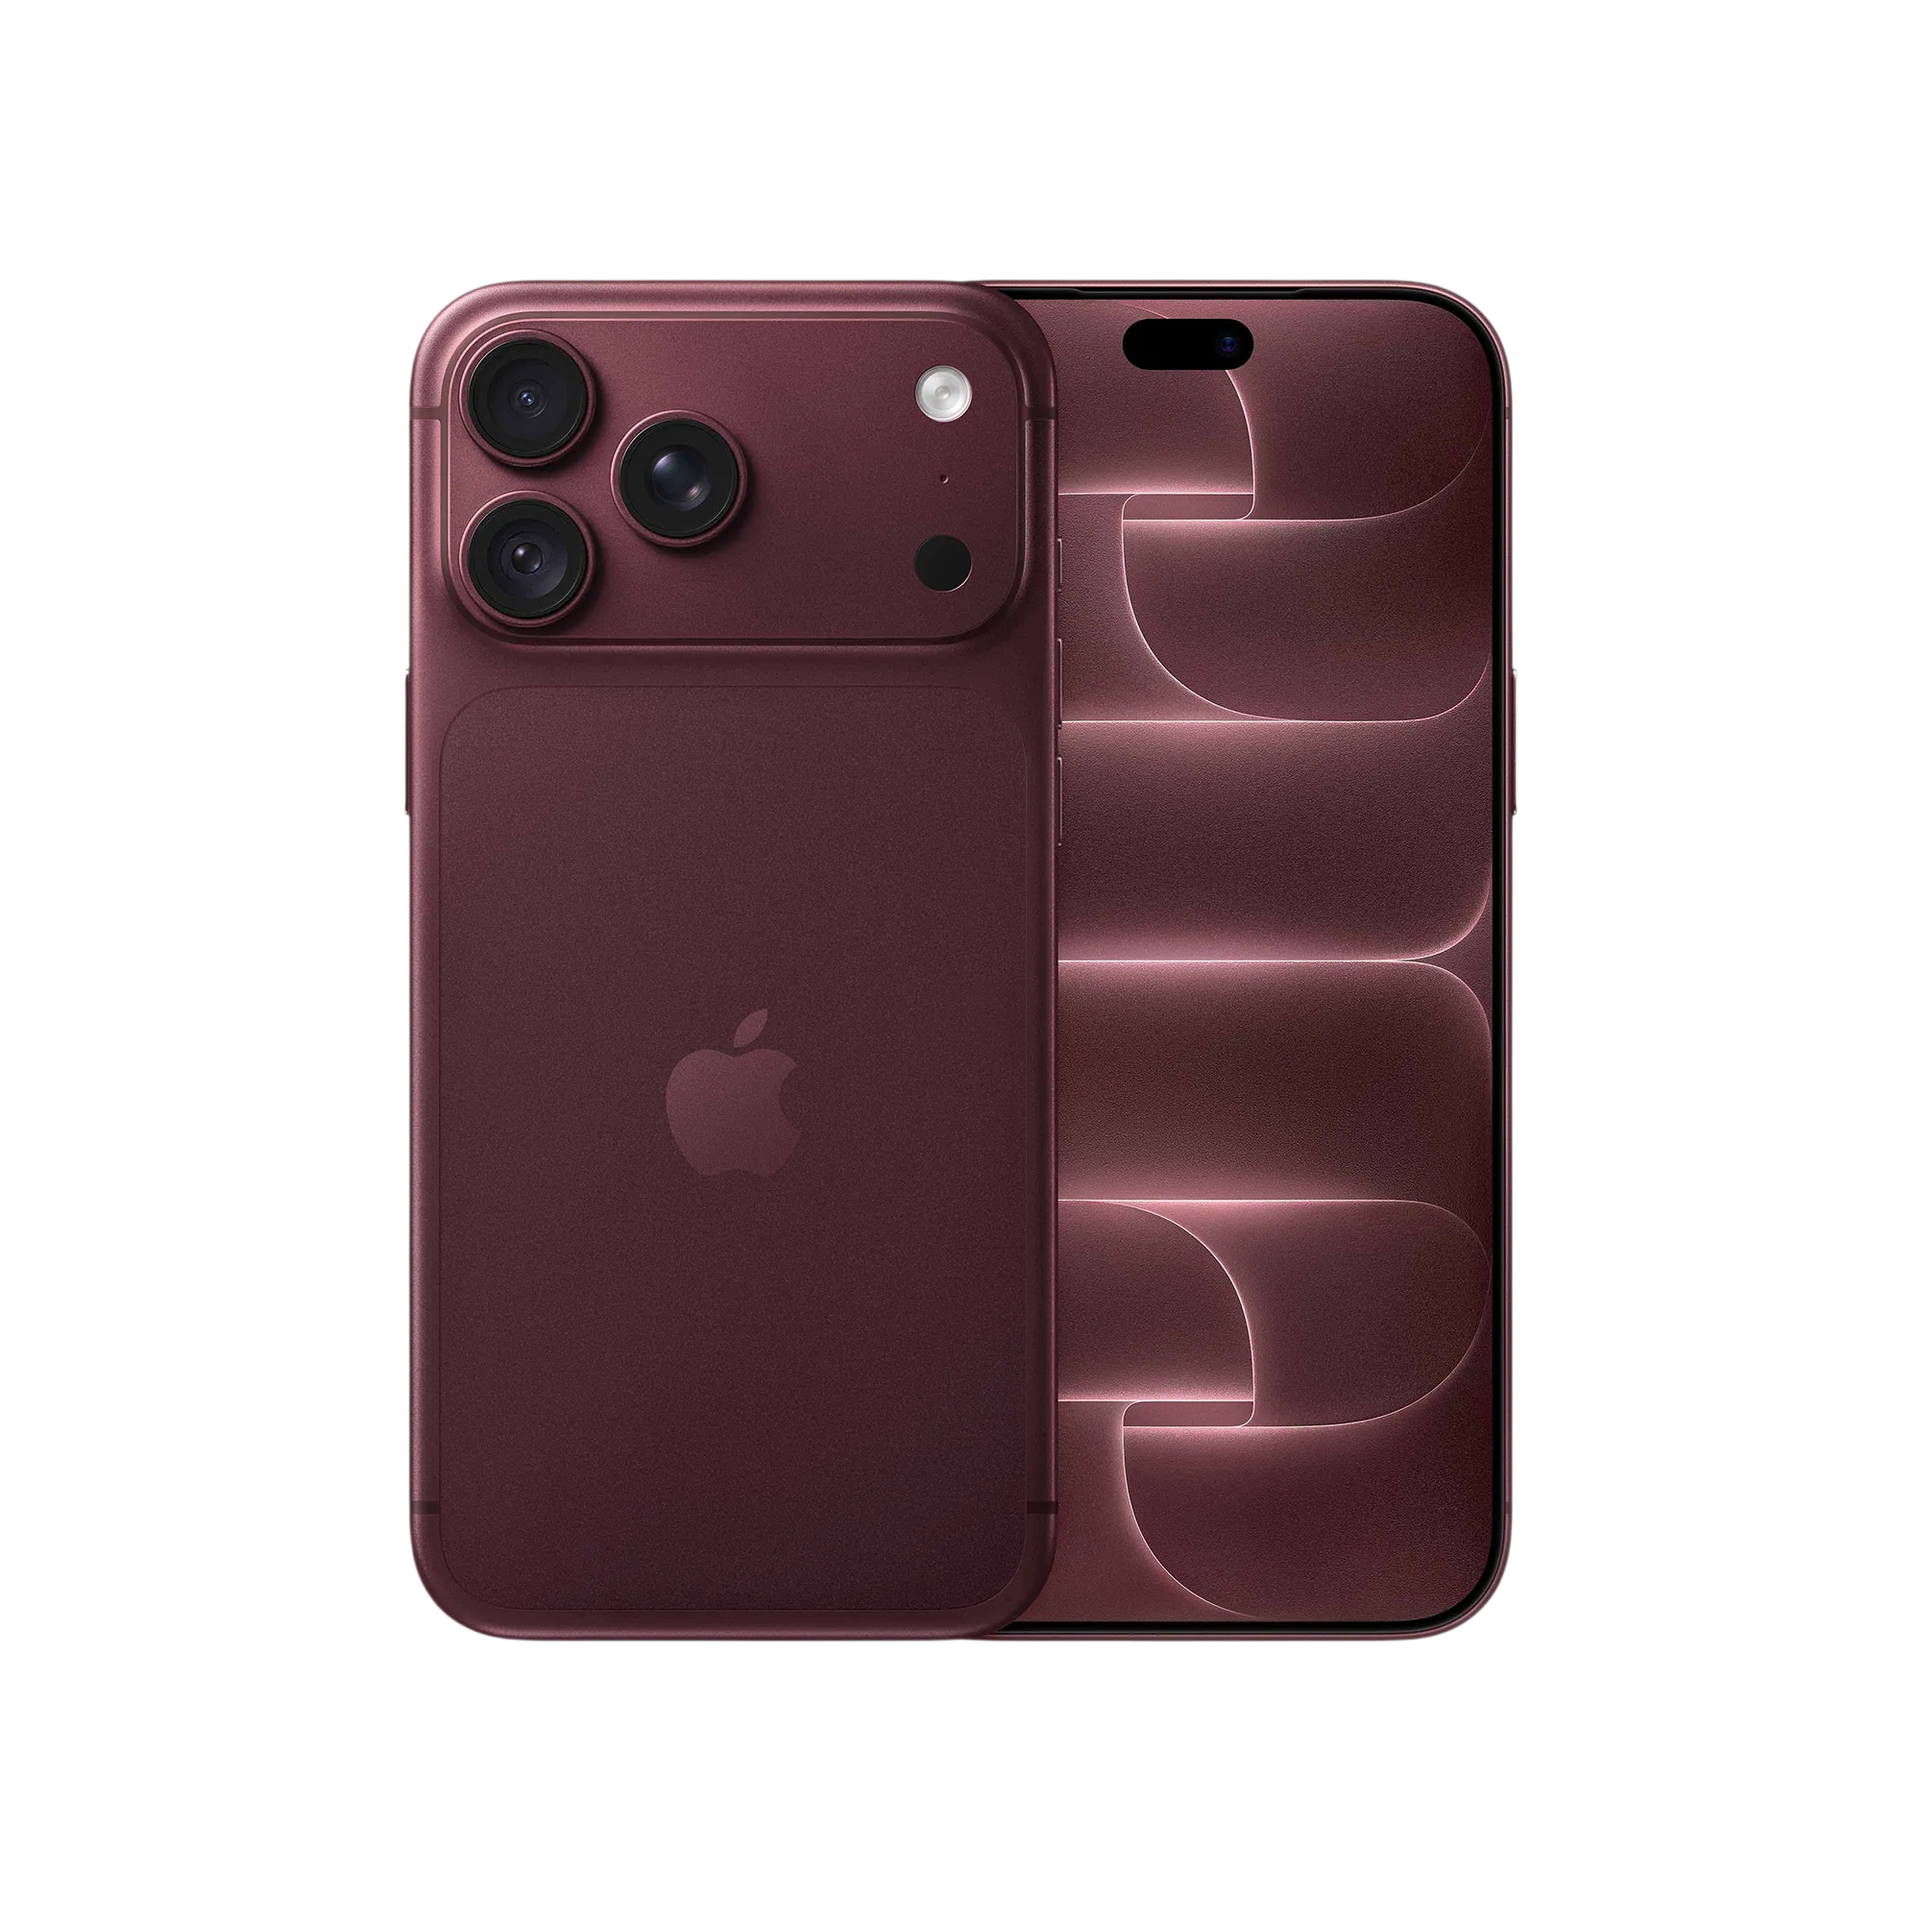
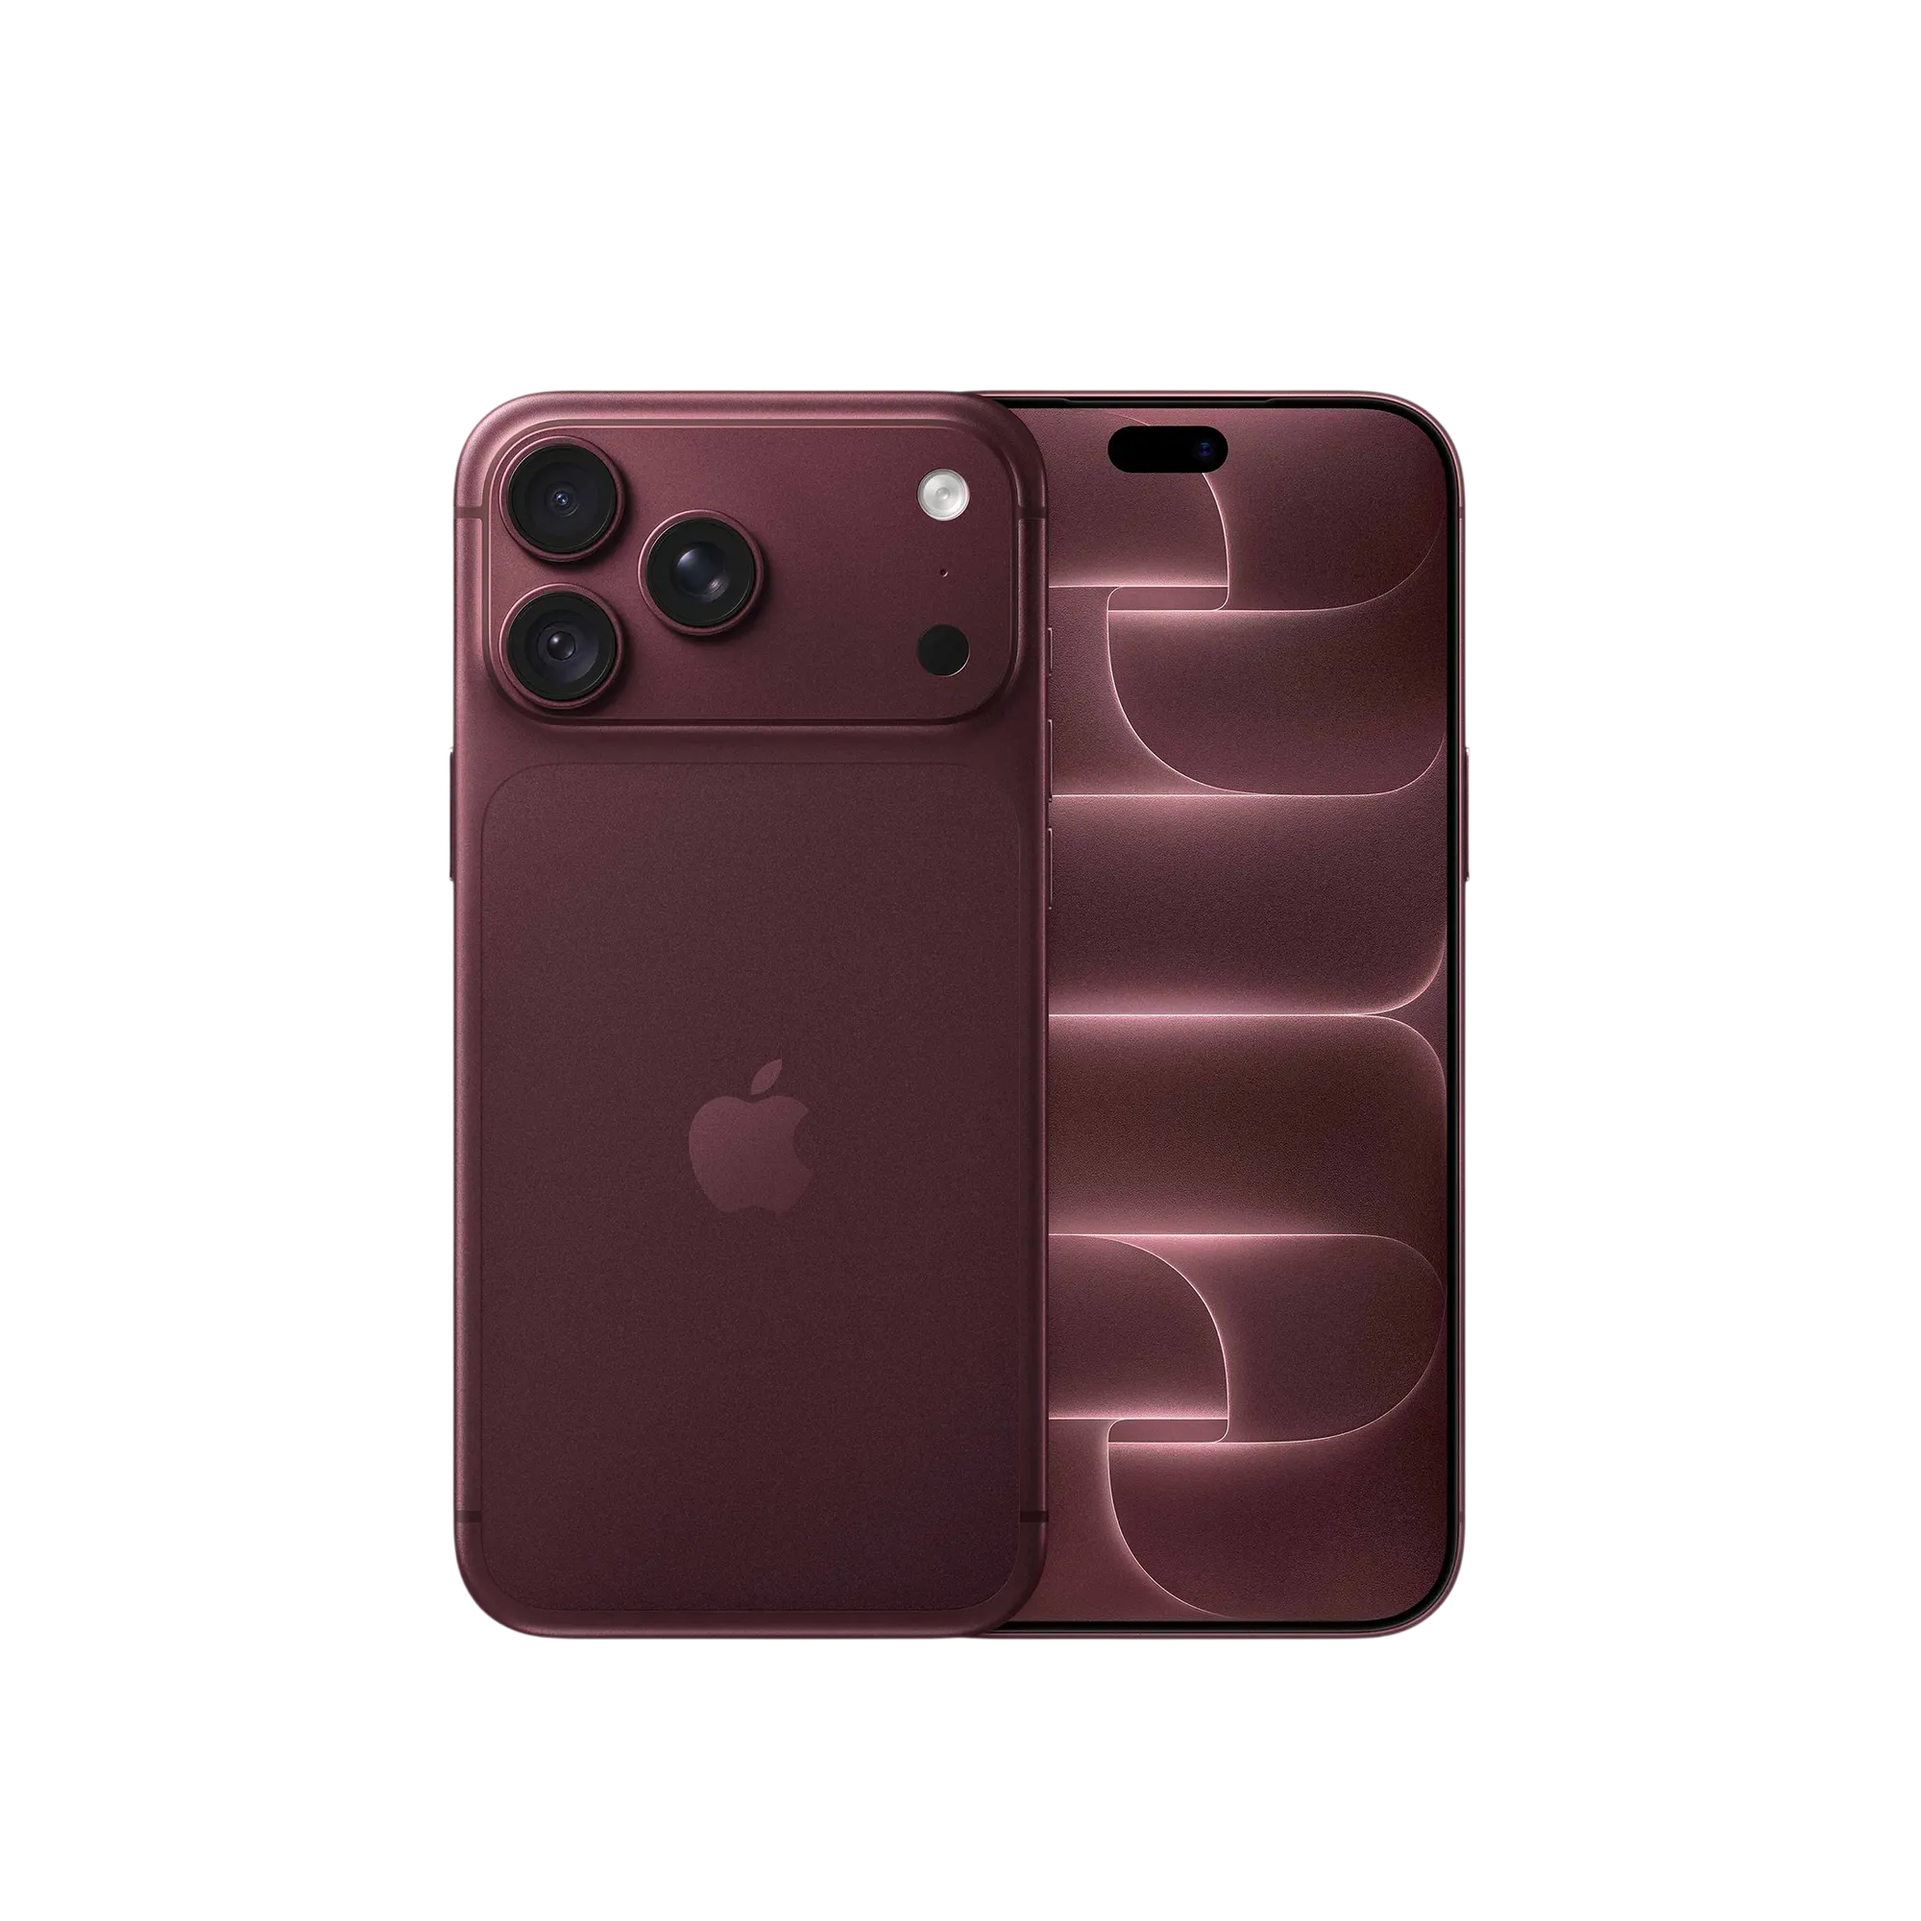
Fix gaps in colors section and normalize burgundy image size

Changed region(s): [[0.186, 0.124, 0.806, 0.868], [0.341, 0.527, 0.403, 0.589]]

diff --git a/Week_2/index.html b/Week_2/index.html
@@ -107,7 +107,7 @@
             <!-- COLORS SECTION -->
             <section class="colors" id="colors">
                 <div class="container">
-                    <h2 class="section-title">Choose from four gorgeous finishes</h2>
+                    <h2 class="section-title" style="margin-bottom: var(--space-md);">Choose from four gorgeous finishes</h2>
                 </div>
                 <div class="container colors-container">
                     <div class="colors-selector">

diff --git a/Week_2/style.css b/Week_2/style.css
@@ -355,7 +355,7 @@ button {
    COLORS SECTION
    ========================================================================== */
 .colors {
-    padding: var(--space-xl) 0;
+    padding: var(--space-xl) 0 3rem;
     background-color: #f2f2f2;
 }
 

diff --git a/Week_2/fix_img.py b/Week_2/fix_img.py
@@ -1,0 +1,25 @@
+from PIL import Image
+
+img_burgundy = Image.open('burgundy.webp')
+img_ref = Image.open('black.webp')
+
+bbox_b = img_burgundy.getbbox()
+bbox_r = img_ref.getbbox()
+
+height_b = bbox_b[3] - bbox_b[1]
+height_r = bbox_r[3] - bbox_r[1]
+
+scale = height_r / height_b
+
+new_size = (int(img_burgundy.width * scale), int(img_burgundy.height * scale))
+img_resized = img_burgundy.resize(new_size, Image.Resampling.LANCZOS)
+
+canvas = Image.new('RGBA', (2000, 2000), (0, 0, 0, 0))
+
+offset_y = int(bbox_r[3] - (bbox_b[3] * scale))
+center_resized_x = ((bbox_b[0] + bbox_b[2]) / 2) * scale
+offset_x = int(1000 - center_resized_x)
+
+canvas.paste(img_resized, (offset_x, offset_y))
+canvas.save('burgundy.webp', 'WEBP')
+print("Image resized successfully")
